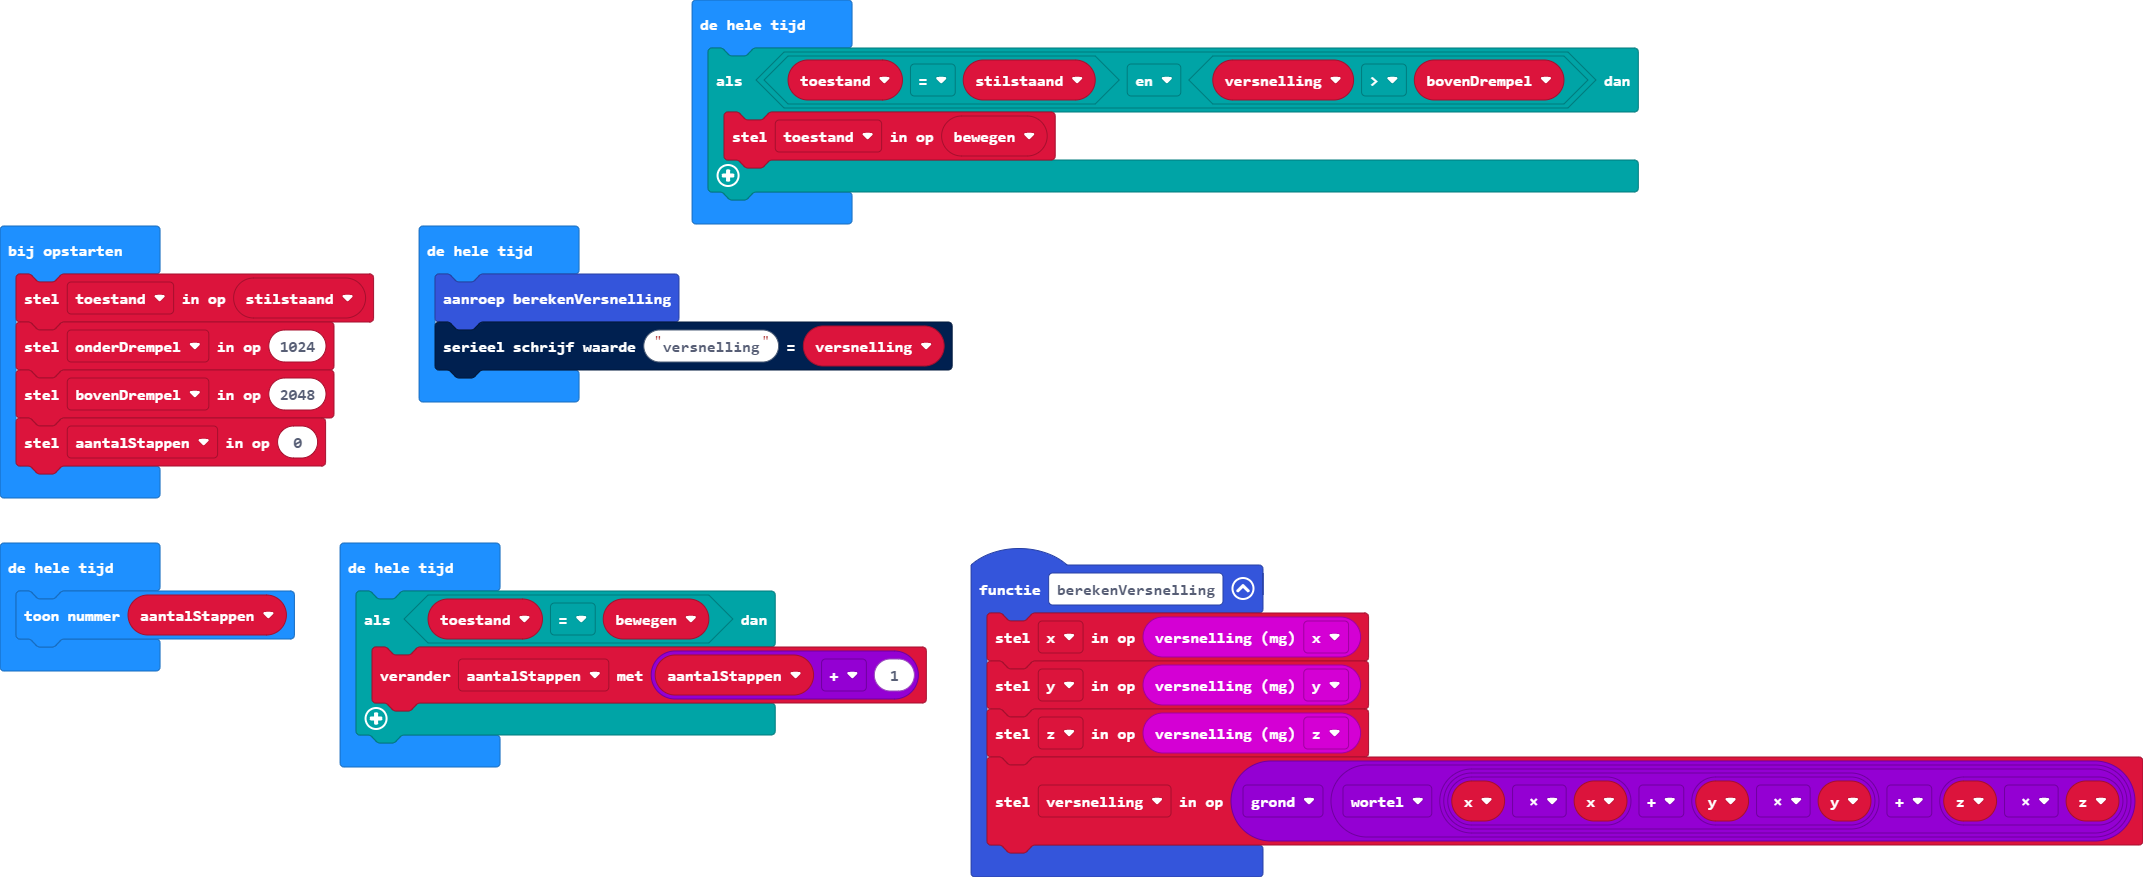
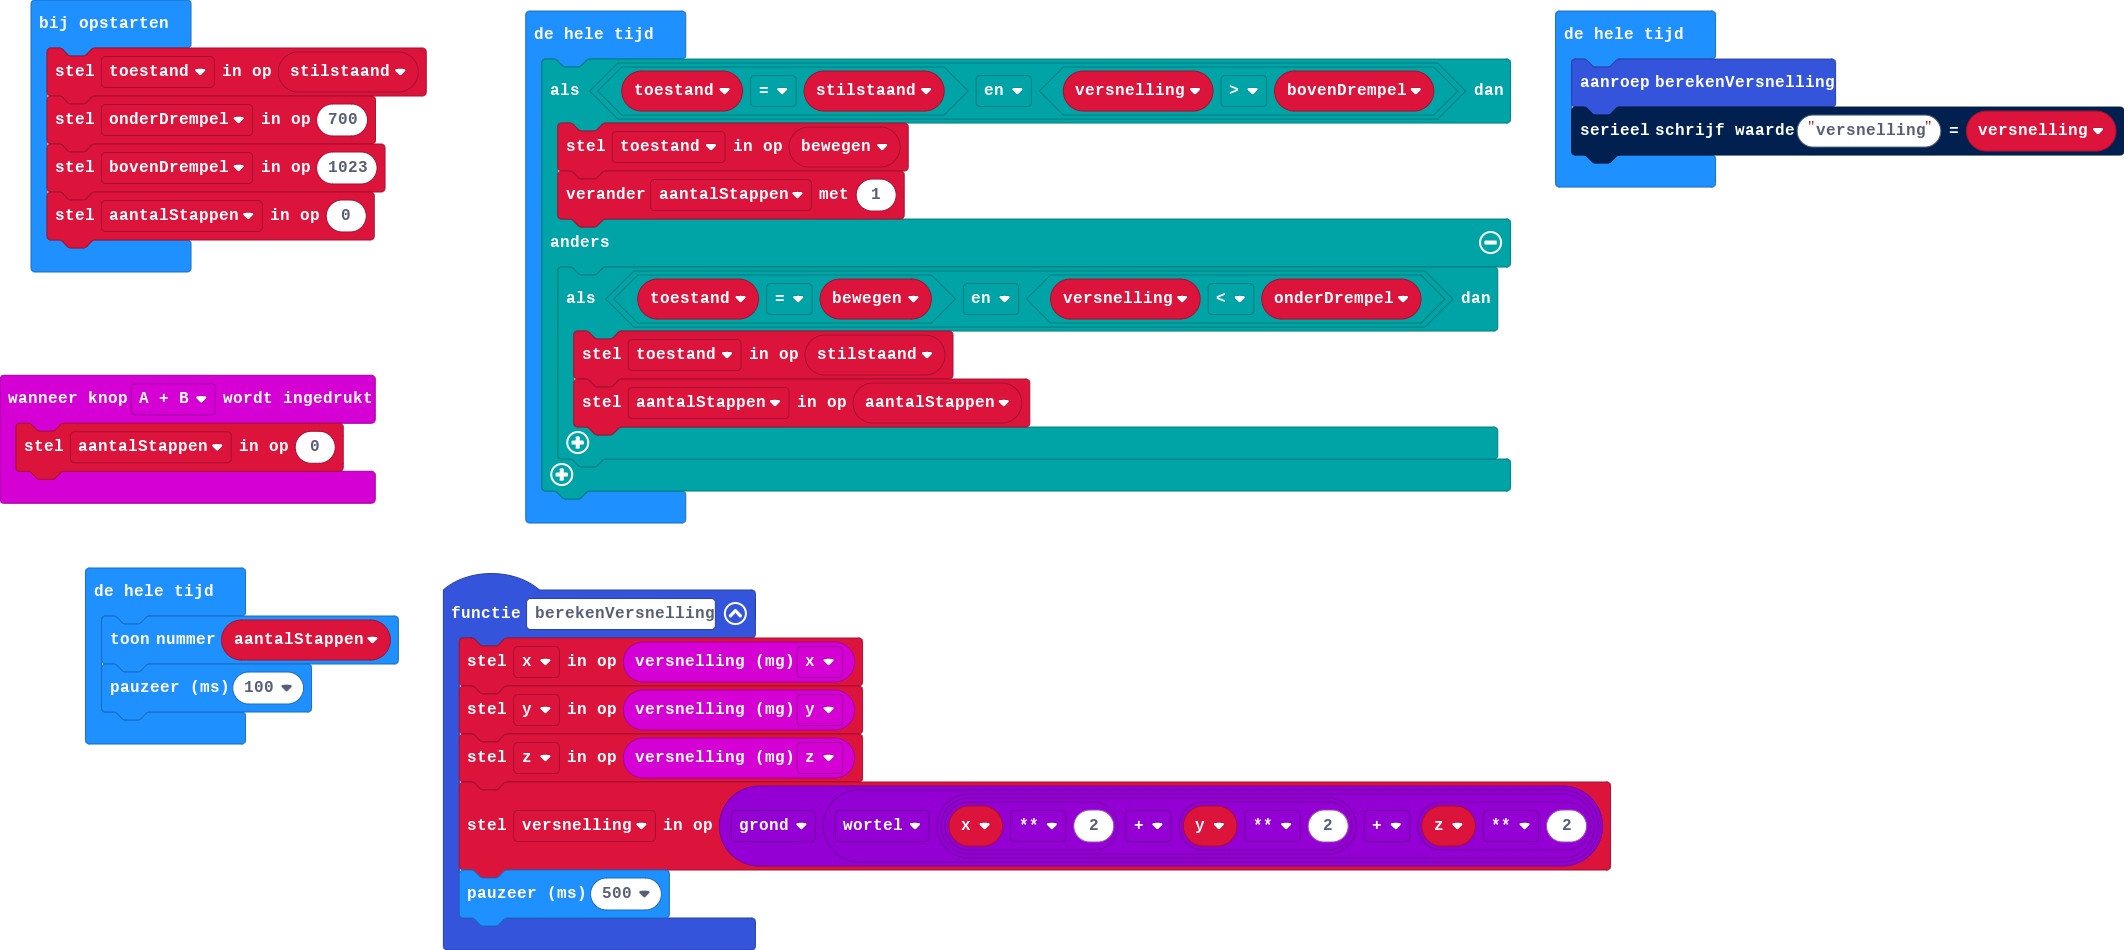
main.blocks, main.ts bijwerken

diff --git a/main.ts b/main.ts
@@ -2,21 +2,32 @@ function berekenVersnelling () {
     x = input.acceleration(Dimension.X)
     y = input.acceleration(Dimension.Y)
     z = input.acceleration(Dimension.Z)
-    versnelling = Math.floor(Math.sqrt(x * x + y * y + z * z))
+    versnelling = Math.floor(Math.sqrt(x ** 2 + y ** 2 + z ** 2))
+    basic.pause(500)
 }
-let bewegen = 0
+input.onButtonPressed(Button.AB, function () {
+    aantalStappen = 0
+})
 let versnelling = 0
 let z = 0
 let y = 0
 let x = 0
+let aantalStappen = 0
 let stilstaand = 0
 let toestand = stilstaand
-let onderDrempel = 1024
-let bovenDrempel = 2048
-let aantalStappen = 0
+let onderDrempel = 700
+let bovenDrempel = 1023
+aantalStappen = 0
 basic.forever(function () {
+    let bewegen = 0
     if (toestand == stilstaand && versnelling > bovenDrempel) {
         toestand = bewegen
+        aantalStappen += 1
+    } else {
+        if (toestand == bewegen && versnelling < onderDrempel) {
+            toestand = stilstaand
+            aantalStappen = aantalStappen
+        }
     }
 })
 basic.forever(function () {
@@ -25,9 +36,5 @@ basic.forever(function () {
 })
 basic.forever(function () {
     basic.showNumber(aantalStappen)
-})
-basic.forever(function () {
-    if (toestand == bewegen) {
-        aantalStappen += aantalStappen + 1
-    }
+    basic.pause(100)
 })
